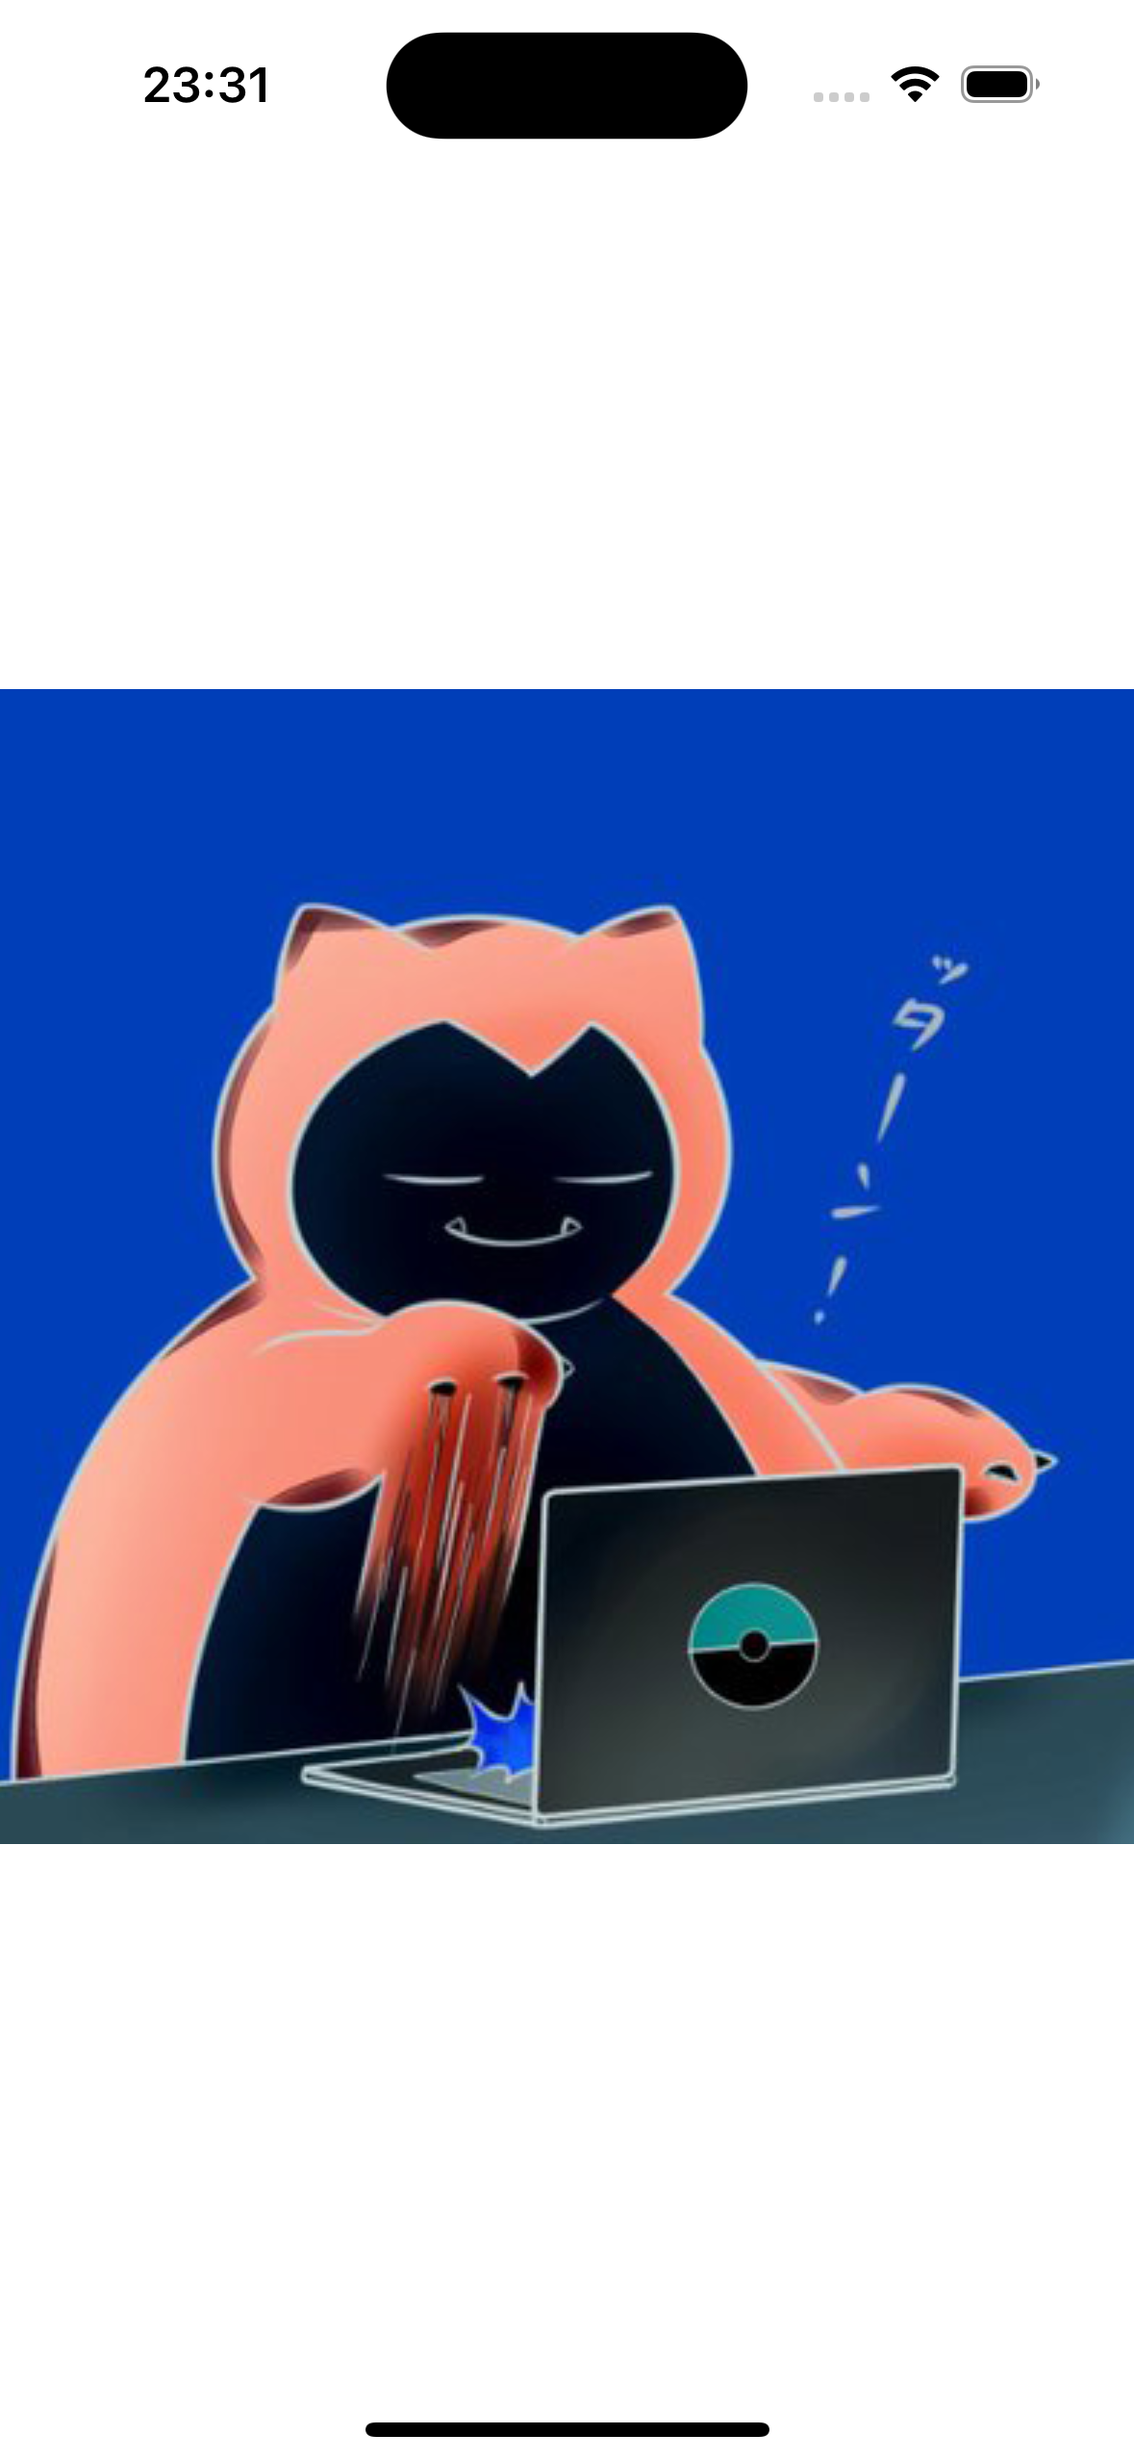
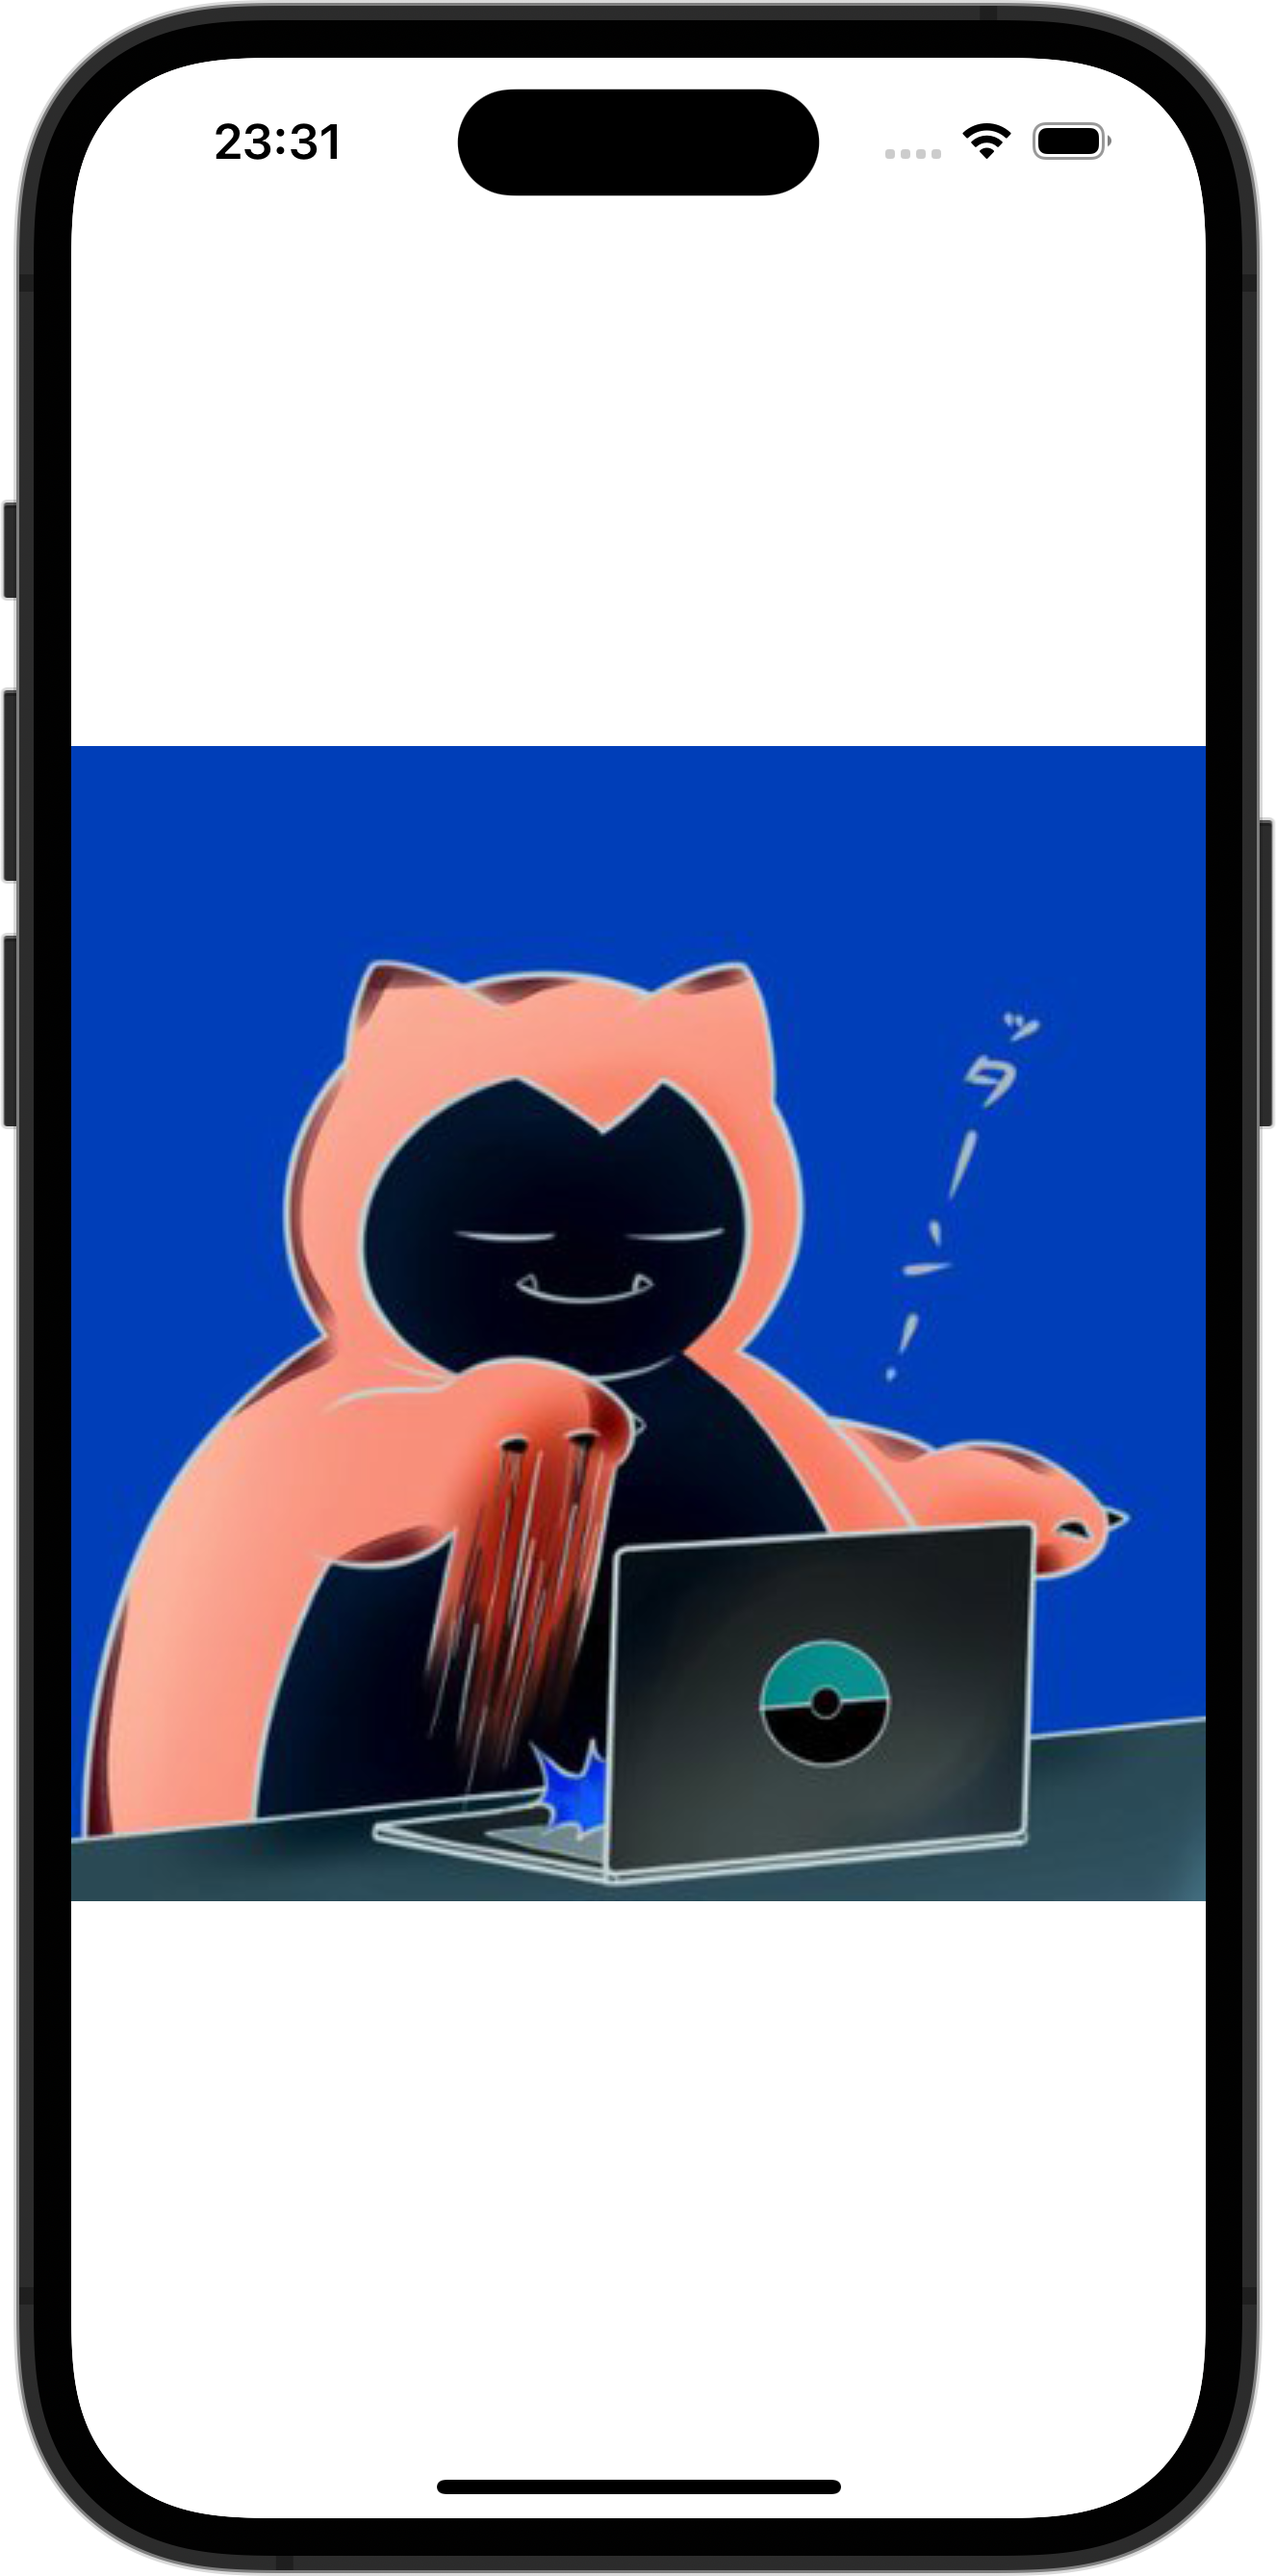
画像を追加

Changed region(s): [[0.0, 0.0, 1.0, 1.0], [0.7023, 0.3709, 0.855, 0.5254], [0.458, 0.4327, 0.4885, 0.4636]]

diff --git a/Articles/Memo.md b/Articles/Memo.md
@@ -302,6 +302,12 @@ ffmpeg -i 2023-12-03/movie-frame.mp4 -crf 35 -vf scale=400:-1 2023-12-03/2023-12
 
 
 
+# 2023-12-05
+convert -size 1326x2676 xc:none 2023-12-05/image.png -geometry +74+59 -composite phone-frame.png -geometry +0+0 -composite 2023-12-05/2023-12-05.png
+
+# 2023-12-06
+convert -size 1326x2676 xc:none 2023-12-06/image.png -geometry +74+59 -composite phone-frame.png -geometry +0+0 -composite 2023-12-06/2023-12-06.png
+
 
 # 2023-12-12
 ffmpeg -i 2023-12-12/2023-12-12.mp4 -vf pad=w=iw+148:h=ih+120:x=85:y=70:color=white 2023-12-12/movie-padding.mp4
